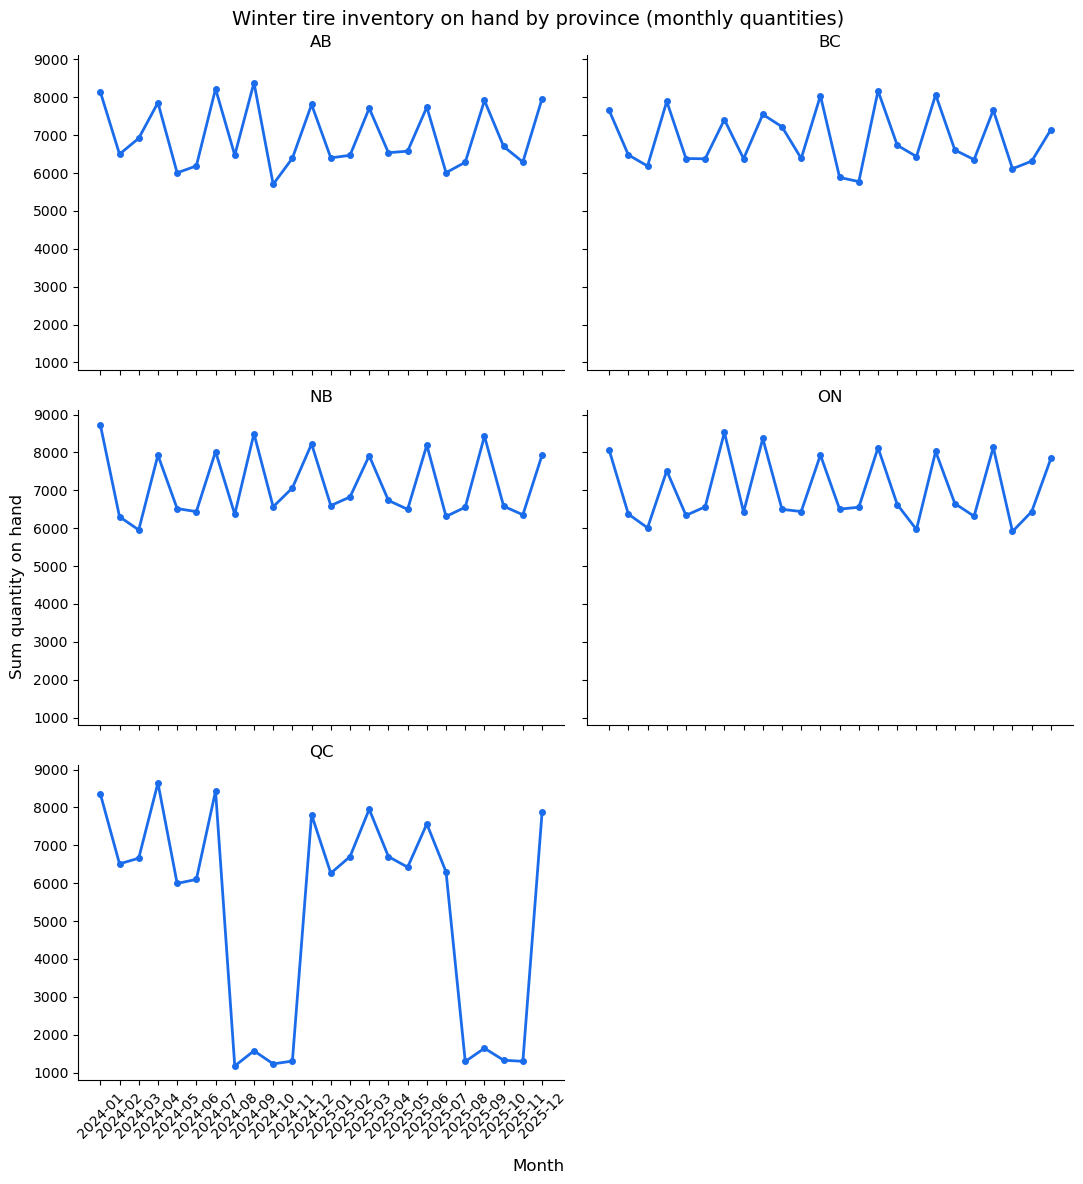
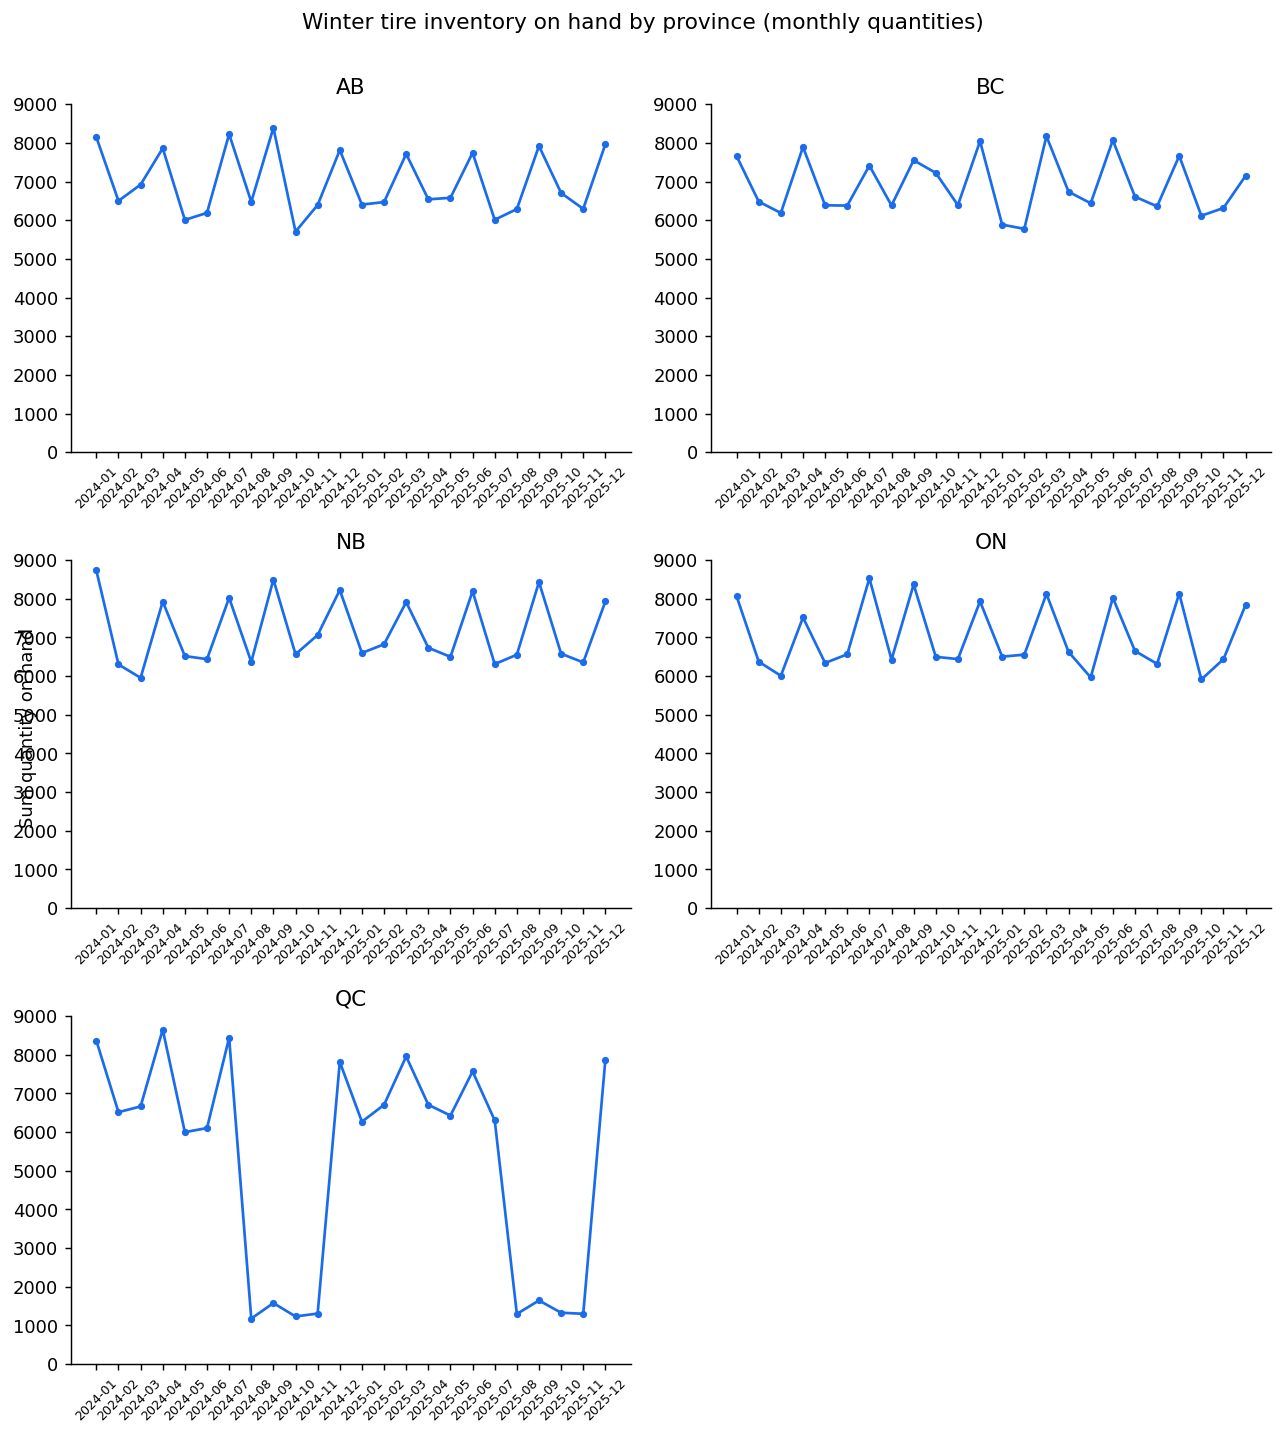
Update README and refresh analysis assets, drop generated report files
Adds a new demand timeline chart, refreshes existing asset images, and
removes the docx/pdf report exports from version control since they are
generated outputs. Ignores the local notebook SQLite DB as well.

diff --git a/README.md b/README.md
@@ -1,42 +1,73 @@
 # The Quebec Winter Tire Problem
 
-Every fall, sales reps in Quebec started hearing the same thing from garage owners: *"Sorry — we already ordered from someone else."* It kept happening right before winter tire season, the busiest stretch of the year, and always for the same reason — orders weren't showing up in time.
+## Background and Overview
+**Northline Tire Distribution**
 
-Leadership had complaints, but no numbers. Before committing budget to fix anything, they needed to know: was this actually happening, how much was it costing, and why?
+Quebec sales reps reported losing garage customers ahead of the 2025 winter tire season, citing an inability to fulfill winter tire orders in time. This analysis confirms the complaint is accurate and quantifiable: Quebec's winter tire backorder rate is approximately 29%, four to seven times higher than every other region (4–8%). Unfulfilled winter tire demand in Quebec during the September–November peak represents approximately $124,169 in at-risk revenue across 738 short-shipped units and 87 affected orders — before accounting for any customers who left for a competitor rather than waiting on a backorder. The root cause is a severe seasonal inventory shortfall at the Montreal distribution centre, where winter tire stock on hand drops to roughly 1,200–1,300 units each August through November — the exact window when demand peaks ahead of Quebec's December 1 winter tire law — while every other region maintains stock in the 6,000–8,500 unit range through their equivalent season. This is a replenishment timing issue specific to Montreal, not a company-wide capacity constraint.
 
-## Confirming the complaint
+Quebec's Highway Safety Code requires winter tires on passenger vehicles from December 1 to March 15. In practice, most customers buy well ahead of that deadline — demand concentrates in September through November and peaks in October, months before the law actually takes effect.
+
+![Winter tire demand timeline](assets/demand_timeline.png)
+
+
+## North Star Metrics
+
+| Metric | What it tells us |
+|---|---|
+| **Backorder rate** | Share of orders that couldn't be fully filled — the clearest signal of whether the complaint is real |
+| **Total orders** | Volume by region — needed to rule out "Quebec just orders more" as the explanation |
+| **Inventory on hand** | Weekly warehouse stock — where the mechanism behind the problem actually shows up |
+| **Lost order value (CAD)** | Unfulfilled quantity priced out — turns a rate into a number leadership can act on |
+
+**Dimensions:** Region · Time (monthly, 2024–2025) · Category (Winter tires)
+
+## Recommendation
+
+a. **Move replenishment earlier** — Quebec's winter tire stock currently bottoms out around 1,200–1,300 units every August through November. Target keeping it above 6,000 units through that window instead, in line with what every other region already holds through its own peak season.
+
+b. **Give Quebec a season-specific reorder point** — order volume in winter tires jumps roughly 4x from baseline in September; a flat, year-round reorder threshold can't react to that, which is exactly the gap that produced a 29% backorder rate against a 4–8% baseline everywhere else.
+
+c. **Add a pre-season inventory check on August 1** — with enough lead time to close the gap before the 4-month shortfall window (Aug–Nov) starts, rather than reacting once backorders are already climbing.
+
+d. **Track backorder rate and lost order value monthly, by region** — with $124,000 in lost order value across 87 orders in one region over one season, this is worth a standing metric, not a once-a-year discovery.
+
+## Evidence
+
+### Confirming the complaint
 
 The first question wasn't "why" — it was "is this even real." Looking at winter tire orders specifically (rather than every order, which would have hidden the effect), one region stood out immediately.
 
 ![Winter tire backordered and cancelled orders by province](assets/winter_backorder_by_province.png)
 
-Quebec wasn't just the worst region — it wasn't close. Once turned into a rate rather than a raw count, Quebec's winter tire backorder rate came out to roughly **29%**, compared to **4–8%** everywhere else. Order volume across regions was checked too, in case Quebec just processed more orders overall — it didn't. The gap was specific to fulfillment, not demand.
+Quebec wasn't just the worst region — it wasn't close. Once turned into a rate rather than a raw count, the gap holds up cleanly:
 
-## Putting a number on it
+| Province | Winter Backordered | Winter Orders (Total) | Backorder Rate |
+|---|---|---|---|
+| AB | 11 | 255 | 4.3% |
+| BC | 22 | 272 | 8.1% |
+| NB | 13 | 228 | 5.7% |
+| ON | 16 | 258 | 6.2% |
+| QC | **70** | **242** | **29.0%** |
+
+Two simpler explanations were checked and ruled out before going any further:
+
+- **Was Quebec just busier overall?** No — total order volume across every region ran roughly even, so the gap wasn't a byproduct of Quebec generating more orders.
+- **Do warehouses dip before every region's own busy season?** A little, yes — but nowhere close to Quebec's collapse. Every other region held steady through its own peak; Quebec was the only one that fell off a cliff.
+
+The gap was specific to fulfillment, not demand, and specific to Quebec, not a company-wide pattern.
+
+### Putting a number on it
 
 A backorder rate tells you something is wrong. It doesn't tell leadership what it's costing. Pricing out every unfulfilled tire during the September–November buying window turned the pattern into a dollar figure — and showed it wasn't a one-time blip.
 
 ![At-risk revenue by month, Quebec winter tires](assets/lost_value_by_month.png)
 
-The same spike, almost to the month, in both years: roughly **$124,000 in at-risk revenue**, spread across 87 orders — and that's a floor, not a ceiling, since it only counts orders that were placed and partly unfulfilled. It doesn't count the customers who never placed an order at all because they went straight to a competitor.
+The same spike, almost to the month, in both years: roughly **$124,000 CAD in lost order value**, spread across 87 orders — and that's a floor, not a ceiling, since it only counts orders that were placed and partly unfulfilled. It doesn't count the customers who never placed an order at all because they went straight to a competitor.
 
-## Finding out why
+### Finding out why
 
 A pattern that specific, that consistent, pointed to something structural rather than bad luck. Comparing warehouse inventory across every region, month by month, showed exactly where it was coming from.
 
 ![Winter tire inventory on hand by province, monthly](assets/inventory_by_province.png)
 
 Four regions held steady stock year-round. Quebec's warehouse collapsed to a fraction of normal levels for four straight months — August through November — right as demand peaked. By the time stock recovered, the season causing the rush was already over.
-
-## What this means
-
-The fix isn't more warehouse capacity — it's timing. Quebec's stock was being drawn down and replenished on the same schedule as every other region, even though its demand curve looks nothing like theirs.
-
-- **Move the replenishment schedule earlier** — stock should peak in June–July, not November, so it's already high when the September rush starts.
-- **Give Quebec its own reorder point for winter tires** instead of one flat threshold across every region.
-- **Add a pre-season inventory check** (e.g., August 1) as a standing trigger, with enough lead time to reorder before the rush hits.
-- **Track this as an ongoing metric** — backorder rate and at-risk revenue by region and season — so the next version of this problem gets caught before a customer ever notices.
-
-None of this requires new headcount or new capacity. It requires the replenishment calendar to match the season it's actually serving.
-
-
